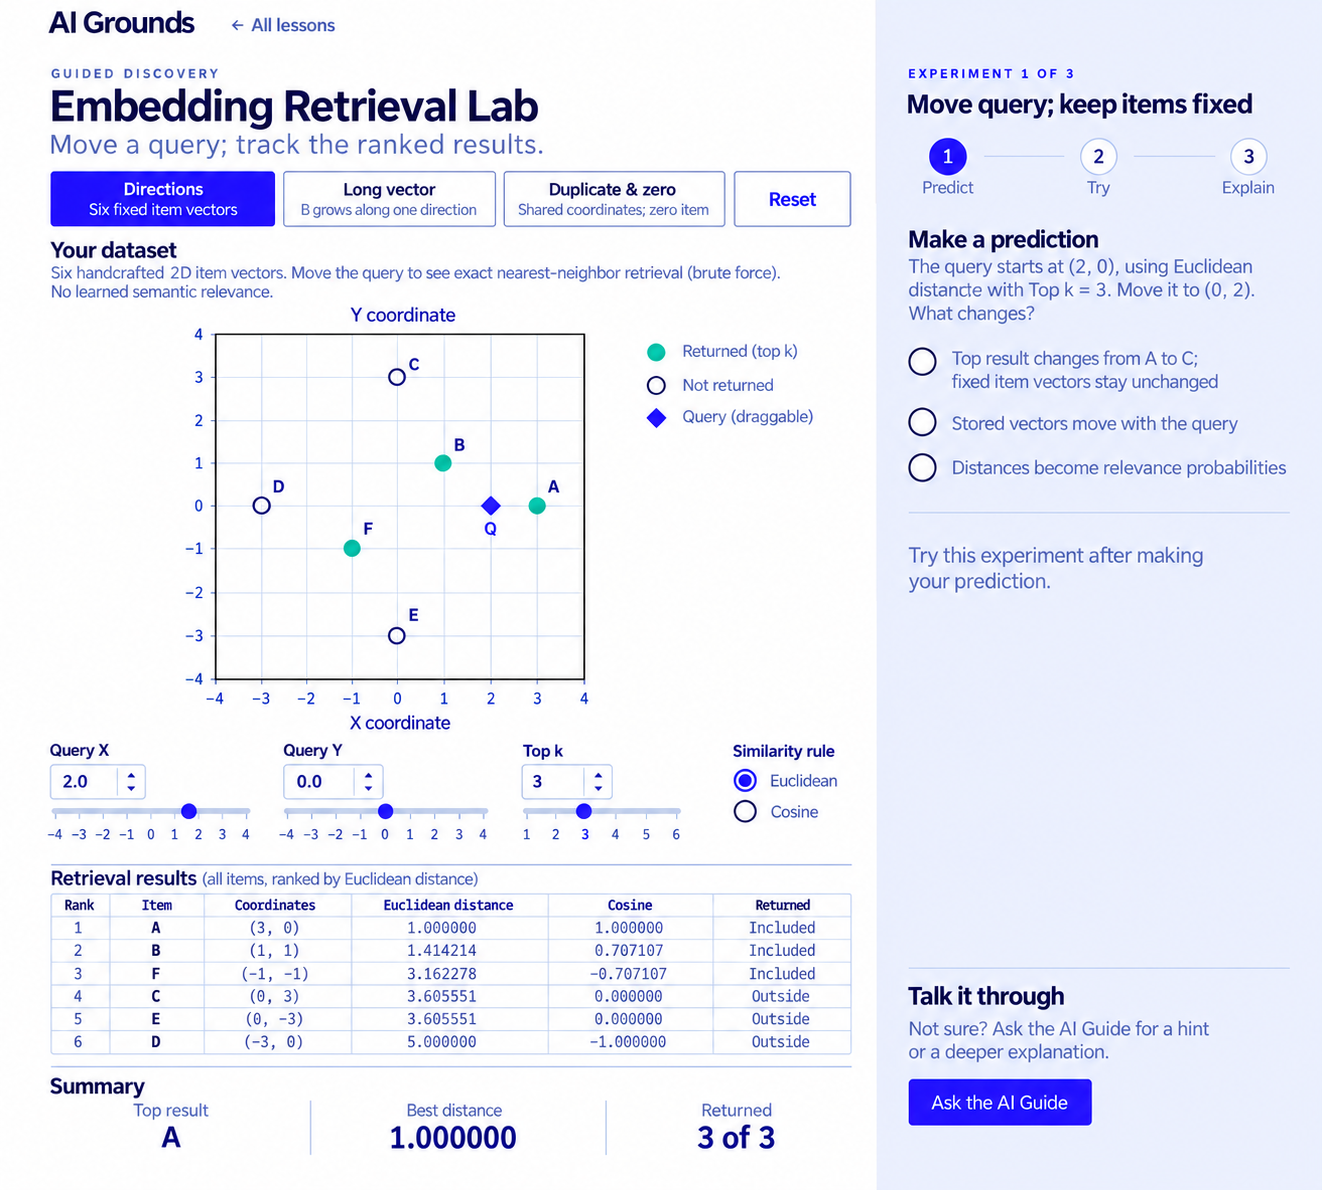
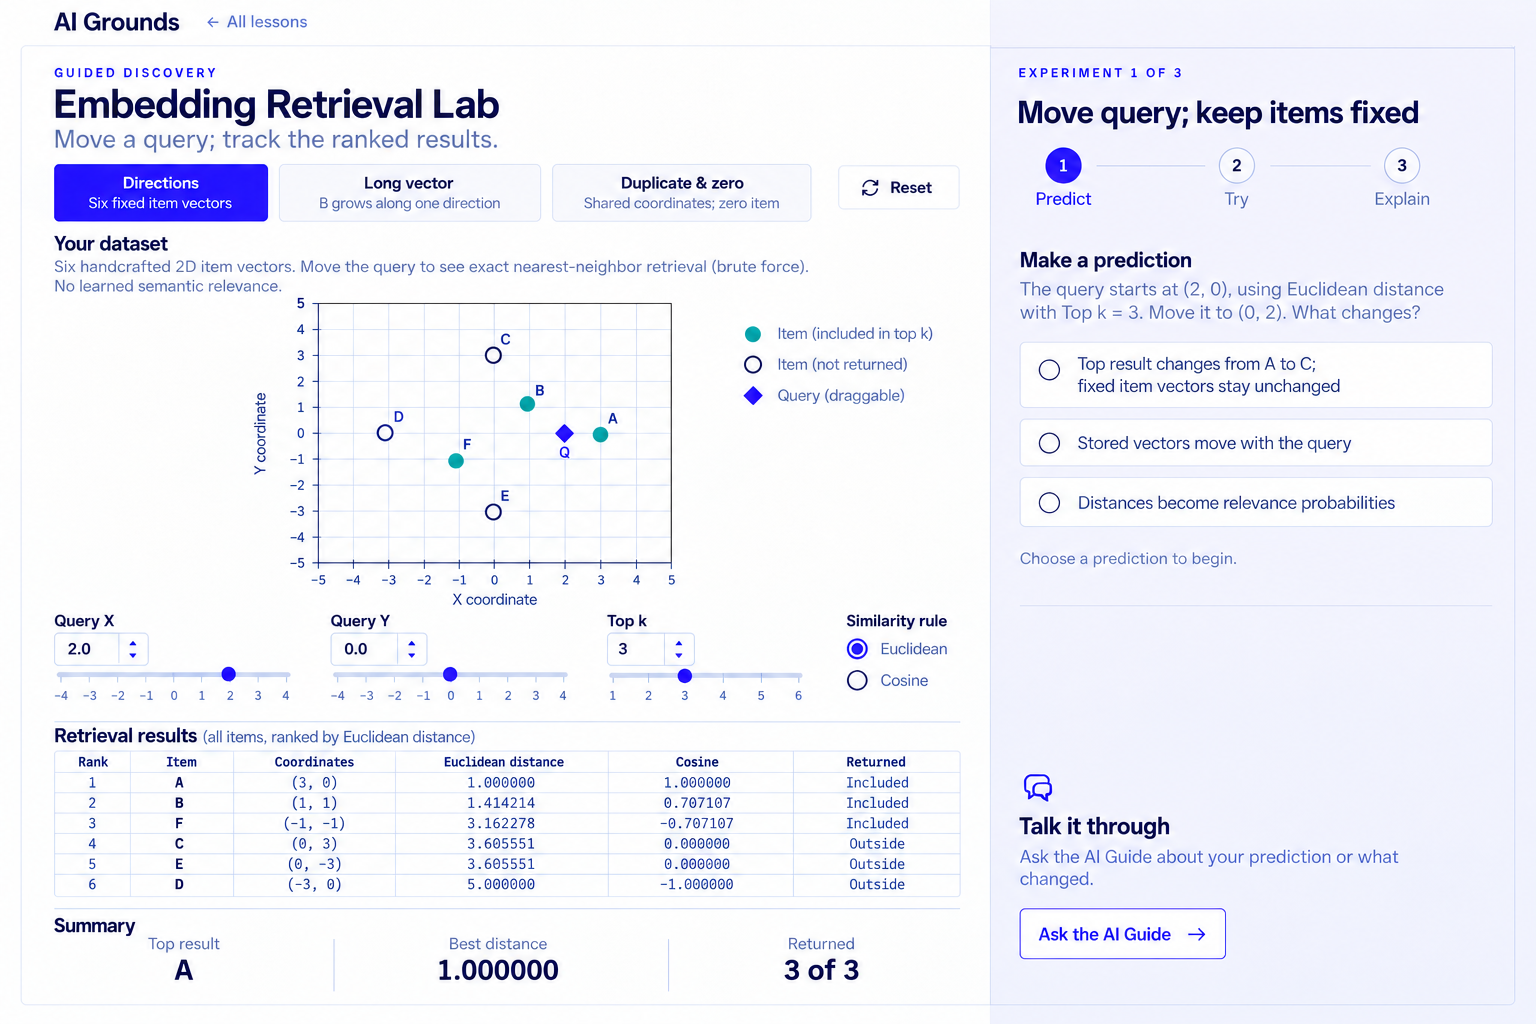
Restore original style in retrieval design reference

diff --git a/src/modules/embedding-retrieval/design/imagegen-prompt.md b/src/modules/embedding-retrieval/design/imagegen-prompt.md
@@ -5,3 +5,8 @@ Use case: product-mockup. Create AI Grounds Embedding Retrieval Lab with the att
 # Corrected prompt
 
 Refine attached Embedding Retrieval page, retaining shared AI Grounds white workbench/lavender rail, title, all six exact source points and Q(2,0), one Guide CTA. Mandatory correctness repair: C(0,3) and E(0,-3) have cosine exactly 0.000000 with nonzero query(2,0), NOT Undefined. Undefined applies only if query or item has zero length. Table rows must read A1.000000/cos1.000000;B1.414214/.707107;F3.162278/−.707107;C3.605551/0.000000;E3.605551/0.000000;D5.000000/−1.000000. Only A/B/F Included. Remove redundant side Item coordinates list because exact coordinates already appear in ranked table; keep concise glyph legend. Put Y-coordinate title above grid so it cannot collide with numeric ticks. Make the numeric grid physically square with equal x/y scales. Keep item dots at A(3,0),B(1,1),C(0,3),D(-3,0),E(0,-3),F(-1,-1), querydiamondQ(2,0); no jitter. Label both axes. Exact controls are Query X2 and Query Y0, each native number editor plus slider -4..4 step0.5; Top k3 native number/slider1..6; Similarity rule Euclidean/Cosine as two shared toggle buttons. Toolbar second button heading Long vector, subtitle B grows along one direction (do not combine the heading with /B). Make prediction uses phrase Euclidean distance rather than Euclidean similarity. No extra control/list/summary cards or fake action before prediction. Closest notion is metric-defined, scores not relevance probabilities. Preserve the three radio predictions and exact summary A,1.000000,3of3.
+
+# Original-style correction
+
+Image1 is the original APPROVED paired AI Grounds style reference; use its LEFT page's style for this ONE lesson. Preserve exact look rather than reinterpret it. White continuous workbench69%, palelavenderf6f5ff experimentrail31%, navbar64px AI Grounds / ← All lessons only. Use SpaceGrotesk headingsnavy0c1230, muted536487 body, indigo5031dc interactive controls. Body and table data are navy, NOT saturatedblue. Original inactive scenariobuttons palegraylavender withnavytext; active solidindigo withwhite. Reset small outlined withnavytext. Horizontal compact numbered Predict/Try/Explain row, radios in smallwhite thinbordered boxes, allEMPTY atinitialPredict. Open summarycolumns with thinverticalseparators and shortformulas, no dashboardcards. Talk it through plainheading +muted paragraph+one outlined Ask the AI Guide button witharrow inrail. NO topGuidebutton, NO solidwideGuidebutton, NO secondTalkbutton, NO bluehover/glow/gradientpanel. Semanticchartcolors use mutedteal087c78,indigo5031dc,orangead4508 only as needed; allmarks labeled. Image2 is current CONTENT reference only, whose blue theme must be corrected. Keep mathematical content and named controls, use originalreference anatomy. Exact chart geometry in app comes from engine; draw illustrative accurate placements. Single lesson/page only, no pairedsecondpage.
+Lesson Embedding Retrieval Lab, subtitle Move a query; track the ranked results. Toolbar Directions/Six fixed item vectors selected;Long vector/B grows along one direction;Duplicate & zero/Shared coordinates; zero item. Your dataset paragraph Six handcrafted 2D item vectors; metric-defined proximity, not learned semantic relevance. Fixedsquare x/y grid -5..5: A(3,0),B(1,1),C(0,3),D(-3,0),E(0,-3),F(-1,-1),querydiamondQ(2,0). Include A/B/F filledmutedteal,othercircleshollow, Qindigo, numericIDlabels. Three shared native editors+sliders Query X2,Query Y0 bounds-4..4step.5,Top k3bounds1..6. Similarity rule toggle Euclidean selected /Cosine. Exact table rank/item/coordinates/distance/cosine/returned rows A1/1included,B1.414214/.707107included,F3.162278/-.707107included,C3.605551/0outside,E3.605551/0outside,D5/-1outside; everyIDvisible, no duplicatecoordinate list. Open summaries Top resultA,Bestdistance1.000000,Returned3of3. Rail Experiment1of3 Move query; keep items fixed. Question Query(2,0),Euclidean,Topk3: movequeryto(0,2),what changes? Three EMPTY boxedradios Top resultA→C,fixeditemsvectorsunchanged /storedvectorsmove /distancesbecomerelevanceprobabilities. SmallChoosepredictiontobegin. One originalstyleoutlinedAskAI GuideCTA. Tables/data bodytextnavy, smallfontsnot saturatedblue. Keep Guided discoveryeyebrow.
